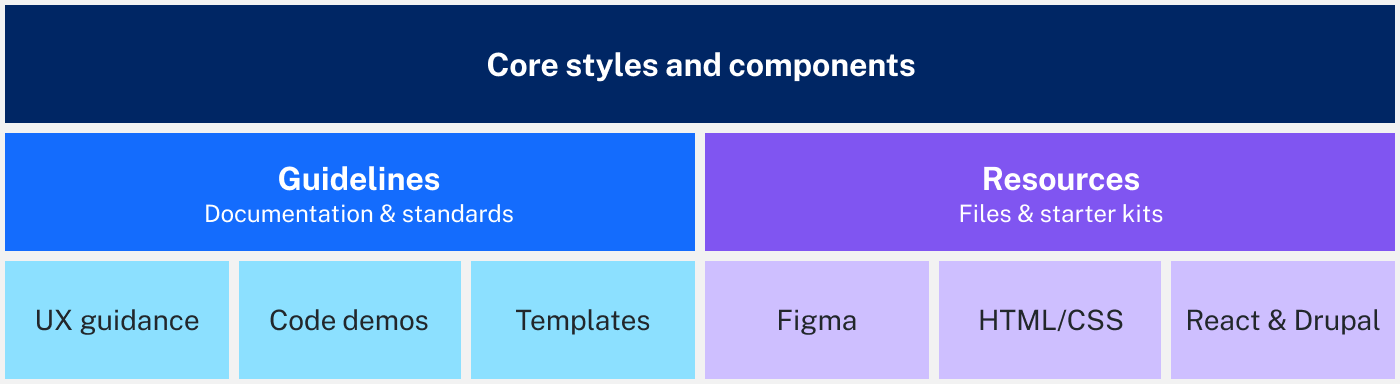
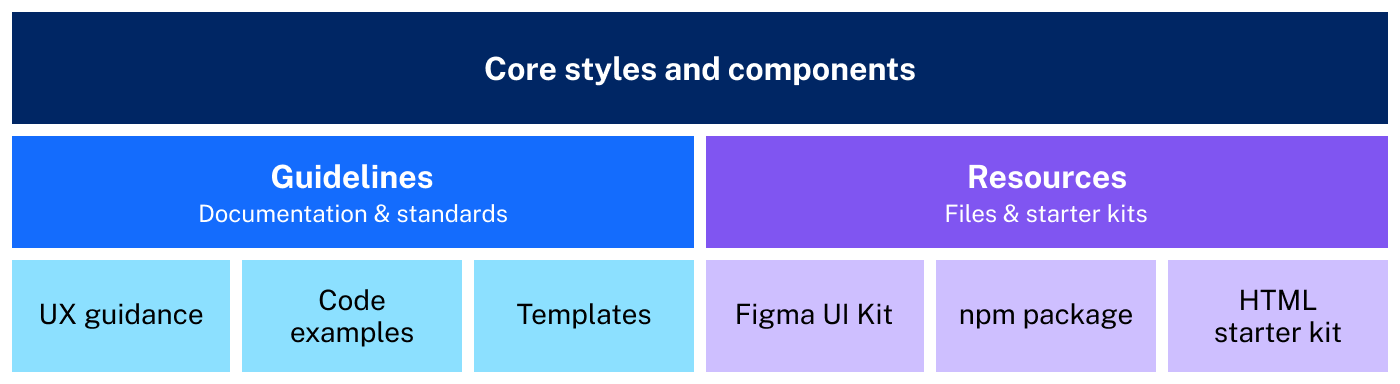
Fixes demo page template style issues, and updates to get started page content

diff --git a/src/docs/data.js b/src/docs/data.js
@@ -396,7 +396,7 @@ const searchValues = [
   {
     label: 'Our ecosystem',
     template: 'result',
-    keywords: 'get started, digital visual identity, core styles, foundations, components, core styles and components, Digital NSW Community, community and support, built in accessibility, UX, content guidance, UI, code starter kits',
+    keywords: 'get started, digital visual identity, core styles, foundations, components, utility classes, spacing, layout, display, Digital NSW Community, community and support, built in accessibility, UX, content guidance, UI, code starter kits',
     url: '/get-started/our-ecosystem.html',
   },
   {

diff --git a/src/global/handlebars/helpers/docs-side-nav-model.js b/src/global/handlebars/helpers/docs-side-nav-model.js
@@ -123,7 +123,7 @@ module.exports = function docsSideNavModel(collections, path) {
     ),
     navGroup(
       'foundations',
-      'Foundations',
+      'Core styles',
       '/index.html#foundations',
       currentUrl,
       groupedCollectionLinks(safeCollections.corenav, FOUNDATION_GROUPS, currentUrl),

diff --git a/src/docs/docs.scss b/src/docs/docs.scss
@@ -890,8 +890,14 @@
 }
 
 .nsw-docs-demo {
-  .nsw-layout__main > h1 {
-    margin-bottom: nsw.rem(32px);
+  .nsw-layout__main {
+    > h1 {
+      margin-bottom: nsw.rem(32px);
+    }
+
+    > :is(h2, h3, h4) + .nsw-docs__example {
+      margin-top: nsw.rem(16px);
+    }
   }
 
   .nsw-docs-code {

diff --git a/src/global/handlebars/helpers/docs-nav-model.js b/src/global/handlebars/helpers/docs-nav-model.js
@@ -72,7 +72,7 @@ module.exports = function docsNavModel(collections = {}) {
       ),
       navItem(
         'foundations',
-        'Foundations',
+        'Core styles',
         'Core styles that create the NSW Government look and feel.',
         collectionLinks(collections.corenav),
       ),
